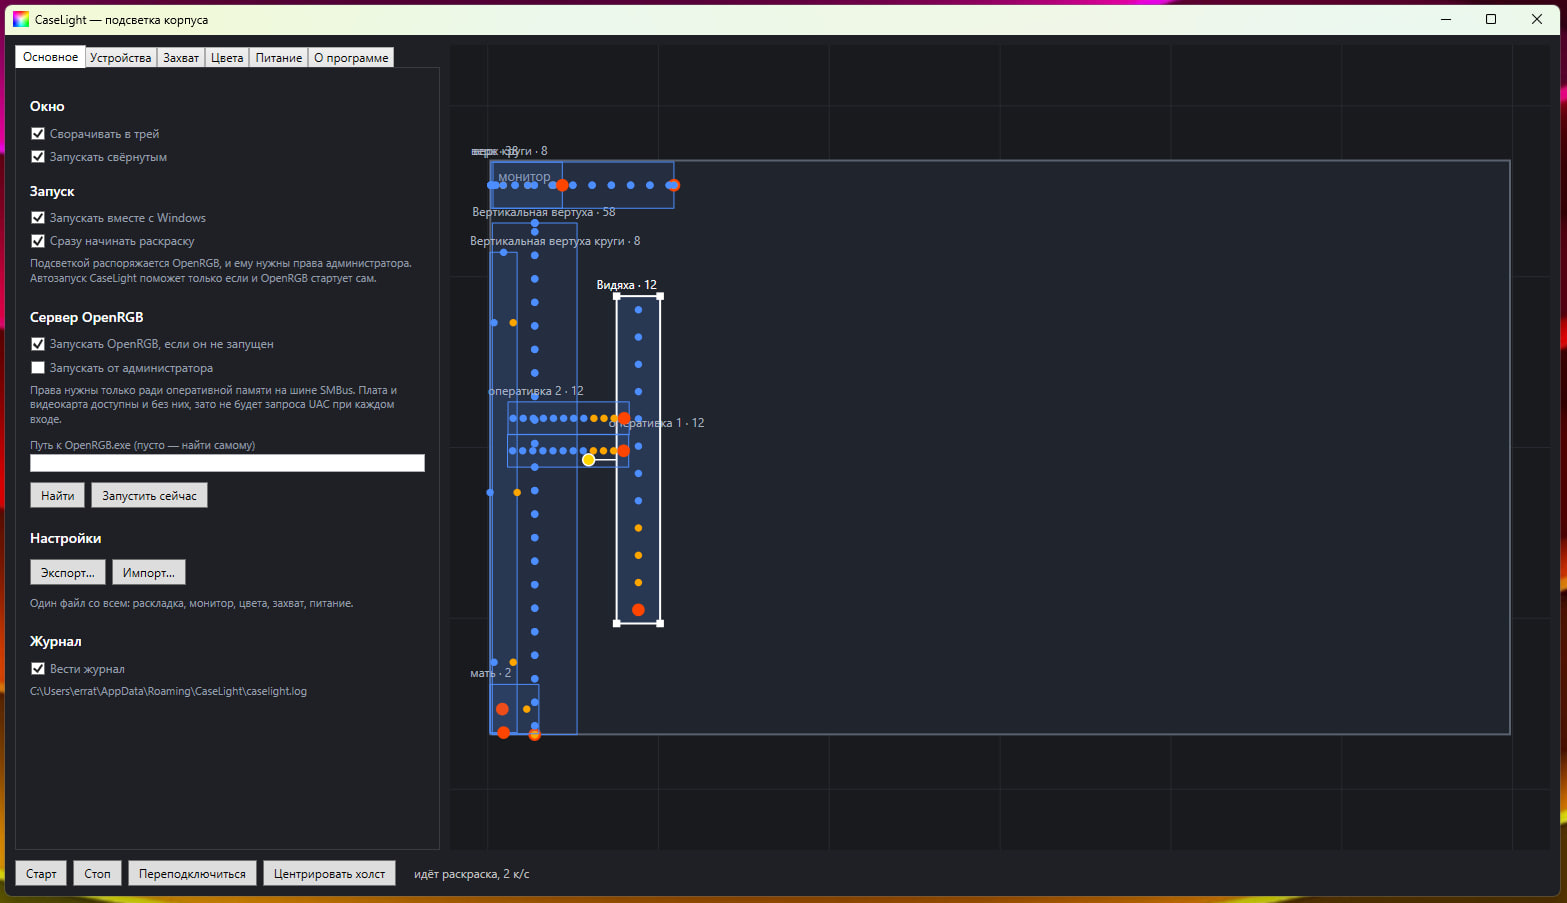
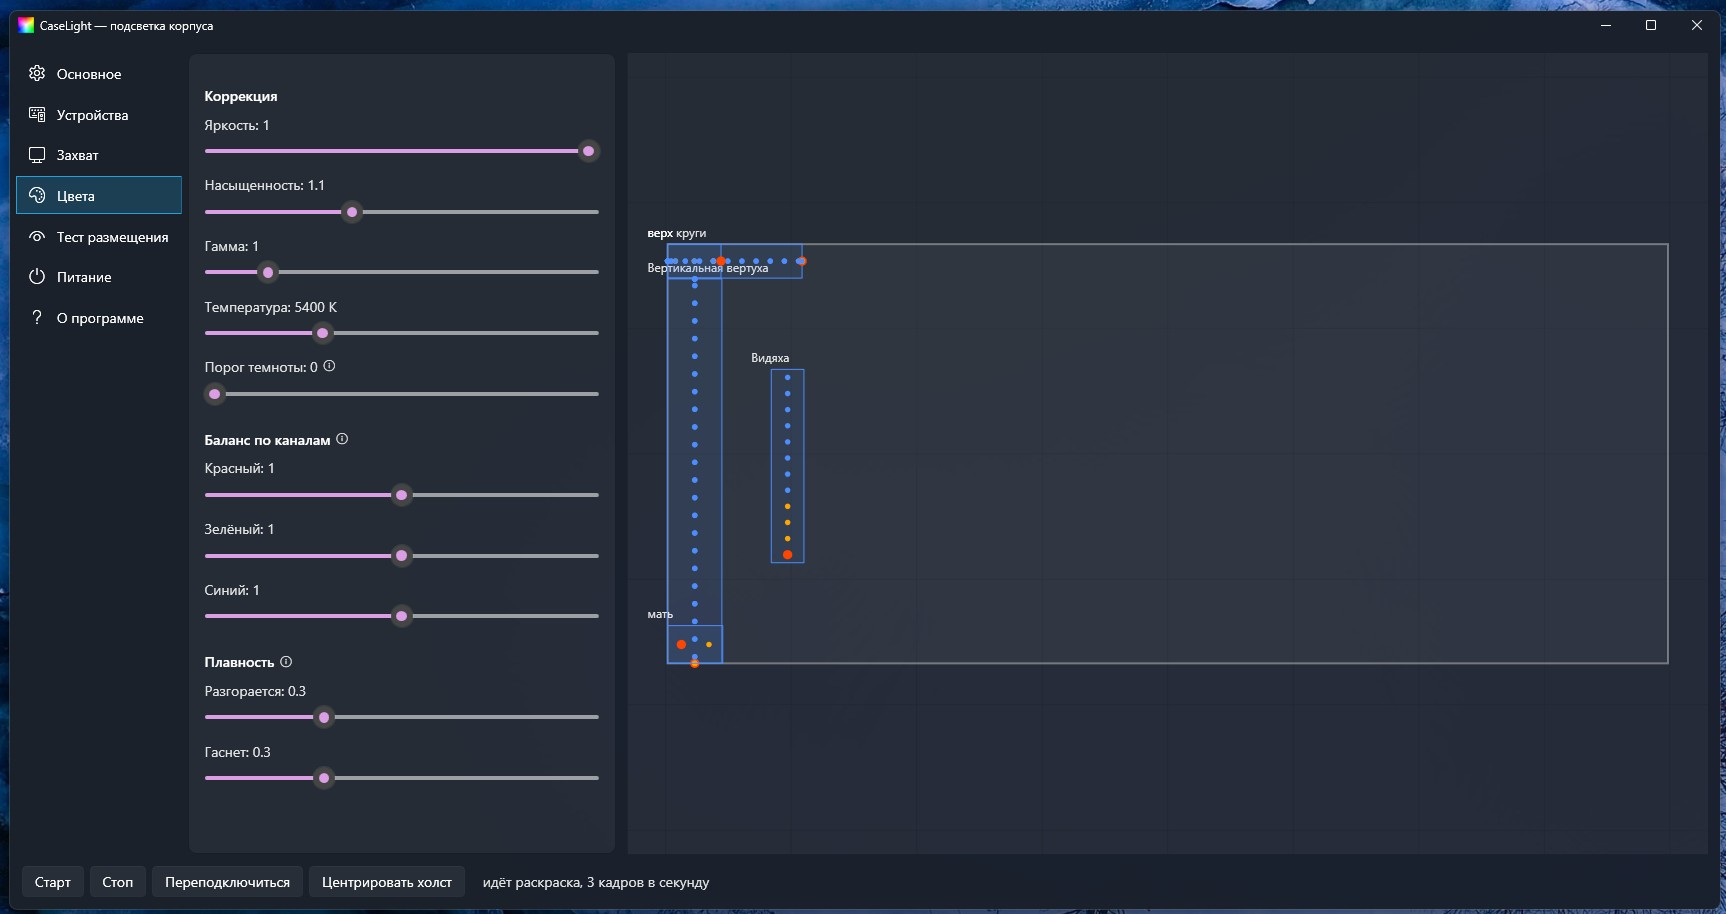
Версия 1.0.0, новый скриншот, согласование числительного в статусе

Changed region(s): [[0.0, 0.0, 1.0, 1.0]]

diff --git a/src/CaseLight/Render/CasePainter.cs b/src/CaseLight/Render/CasePainter.cs
@@ -300,13 +300,30 @@ public sealed class CasePainter : IDisposable
                 Fps = framesThisSecond * 1000.0 / (tick - fpsWindow);
                 framesThisSecond = 0;
                 fpsWindow = tick;
-                Status = test != null
-                    ? $"тест размещения, {Fps:F0} кадров в секунду"
-                    : $"идёт раскраска, {Fps:F0} кадров в секунду";
+                Status = (test != null ? "тест размещения, " : "идёт раскраска, ") + Rate(Fps);
             }
 
             Thread.Sleep(periodMs);
         }
+    }
+
+    /// <summary>
+    /// The frame rate with its noun in the right case.
+    ///
+    /// Russian declines the noun after a number - one кадр, two кадра, five кадров - and a
+    /// status line that reads "3 кадров" looks like a bug in everything around it.
+    /// </summary>
+    static string Rate(double fps)
+    {
+        int n = (int)Math.Round(fps);
+        int tail = n % 100, last = n % 10;
+
+        string word = tail is >= 11 and <= 14 ? "кадров"
+                    : last == 1 ? "кадр"
+                    : last is >= 2 and <= 4 ? "кадра"
+                    : "кадров";
+
+        return $"{n} {word} в секунду";
     }
 
     /// <summary>
